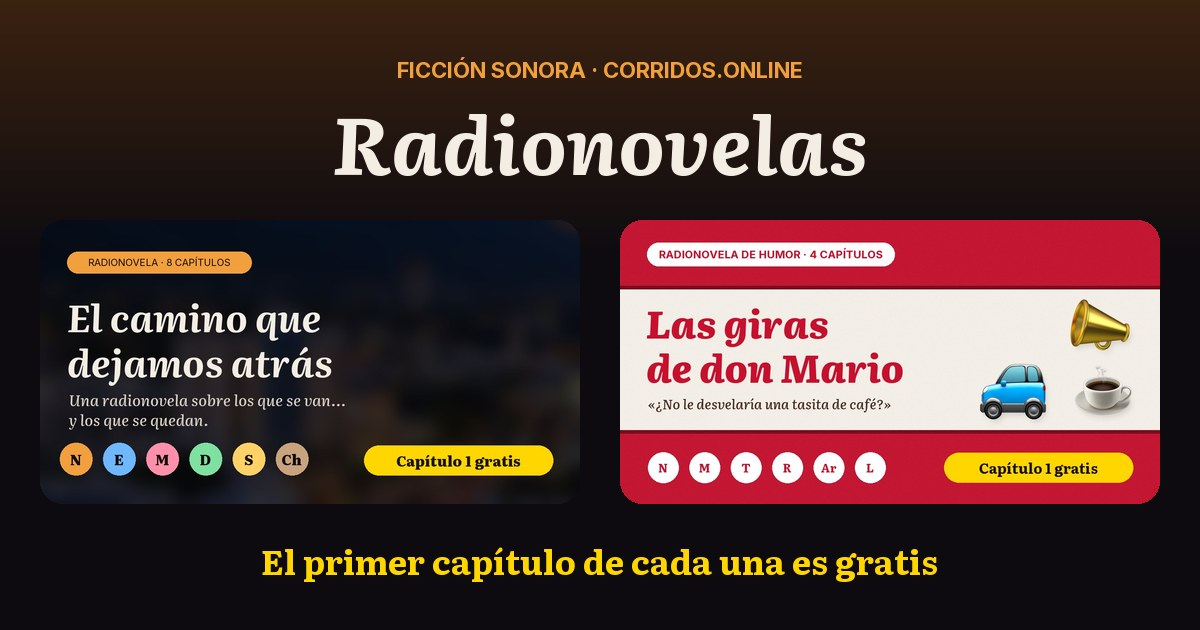
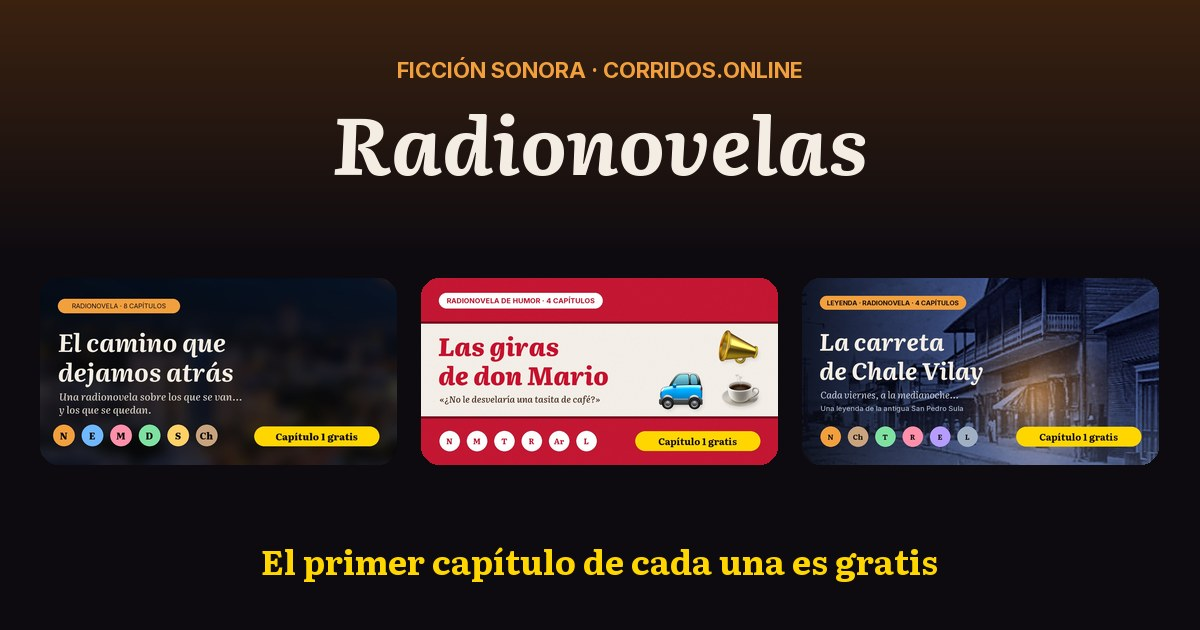
Radionovelas: «La carreta de Chale Vilay», leyenda de San Pedro Sula en 4 capítulos; el índice comparte las tres portadas

Changed region(s): [[0.0308, 0.3317, 0.9867, 0.8143]]

diff --git a/lib/radionovelas/index.ts b/lib/radionovelas/index.ts
@@ -1,5 +1,6 @@
 import capitulosElCamino from './elCaminoCapitulos.json';
 import capitulosDonMario from './donMarioCapitulos.json';
+import capitulosChaleVilay from './chaleVilayCapitulos.json';
 
 // Radionovelas: series de ficción sonora por capítulos. El primer capítulo de cada una es gratis; los demás son
 // un beneficio de la membresía de /apoya (lib/miembrosApoya.ts). El audio de cada capítulo está en Storage como
@@ -76,6 +77,28 @@ export const RADIONOVELAS: Radionovela[] = [
     aviso:
       'Las giras de don Mario es una obra de ficción y humor, inspirada en una anécdota popular hondureña. Cualquier parecido con la realidad es pura coincidencia.',
     capitulos: capitulosDonMario as Capitulo[],
+    versionAudio: '1',
+  },
+  {
+    slug: 'la-carreta-de-chale-vilay',
+    titulo: 'La carreta de Chale Vilay',
+    lema: 'Una leyenda de la antigua San Pedro Sula.',
+    descripcion:
+      'Cuentan que cada viernes, a la medianoche, una carreta recorría San Pedro Sula desde Guamilito hasta el cementerio general. Una leyenda de suspenso en 4 capítulos de Armando Roque Godoy.',
+    personajes: {
+      N: { nombre: 'Narrador', edad: '', color: '#f2a03d' },
+      C: { nombre: 'Chale Vilay', edad: 'el carretero', color: '#c9a27e', inicial: 'Ch' },
+      T: { nombre: 'Tomás', edad: 'su sobrino', color: '#7ee0a1' },
+      R: { nombre: 'Rosa', edad: 'la novia de Tomás', color: '#ff8fab' },
+      E: { nombre: 'Doña Engracia', edad: 'vecina de Guamilito', color: '#b79cff', inicial: 'E' },
+      S: { nombre: 'Lencho', edad: 'el sereno', color: '#a0b0c4', inicial: 'L' },
+      D: { nombre: 'Dr. Medina', edad: 'el médico', color: '#6fb7ff', inicial: 'Dr' },
+      P: { nombre: 'Padre Ignacio', edad: 'el cura', color: '#ffd166' },
+      M: { nombre: 'Doña Tina', edad: 'la mamá de Rosa', color: '#5ed6d6', inicial: 'Ti' },
+    },
+    aviso:
+      'La carreta de Chale Vilay es una obra de ficción inspirada en una leyenda de la antigua San Pedro Sula. Sus personajes y su historia se cuentan como leyenda, no como hechos comprobados.',
+    capitulos: capitulosChaleVilay as Capitulo[],
     versionAudio: '1',
   },
 ];
